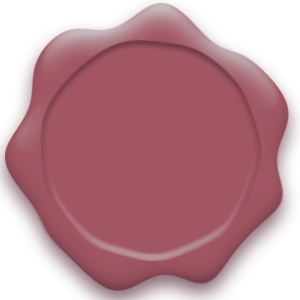
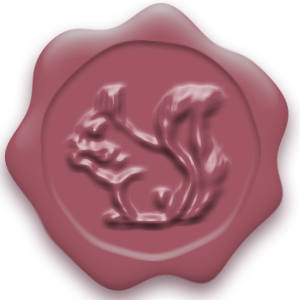
updated wax seals, styles, cap T

Changed region(s): [[0.21, 0.27, 0.78, 0.78]]

diff --git a/truce_contract.html b/truce_contract.html
@@ -38,7 +38,7 @@
     </div>
     <div class="container">
         <div class="row text-center">
-            <div class="col-md-12 display-1">Truce & Mutual Affection Contract</div>
+            <div class="col-md-12 display-1"><img src="/assets/images/T.png" class="medieval-caps">ruce & Mutual Affection Contract</div>
         </div>
     </div>
     <div class="row">

diff --git a/assets/css/style.css b/assets/css/style.css
@@ -10,6 +10,11 @@ body {
     cursor: url('../images/quill_cursor.png'), pointer;
 }
 
+.medieval-caps {
+    max-width: 7%;
+    height: auto;
+}
+
 .bullet-h { 
     counter-increment: ordem;
 }
